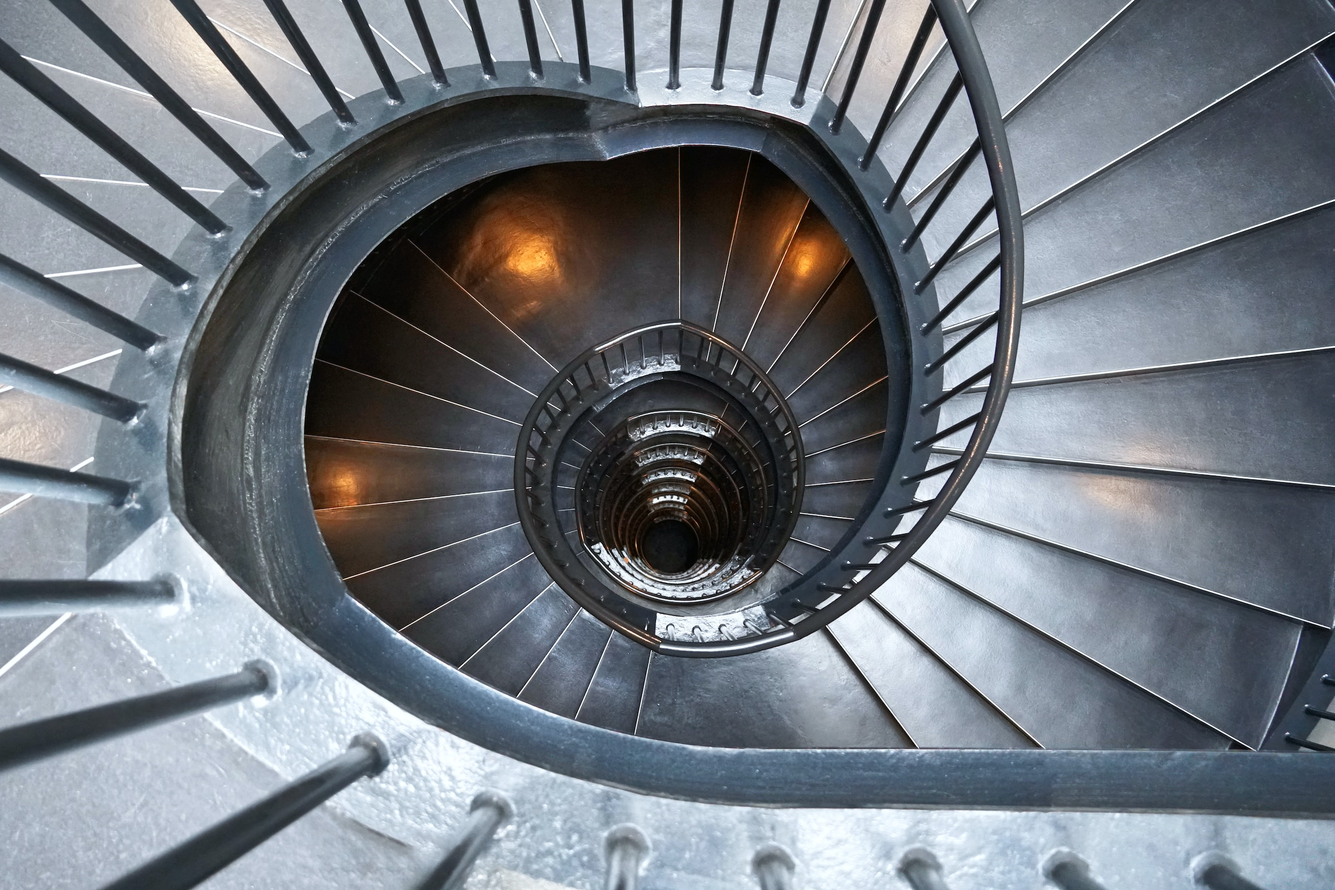
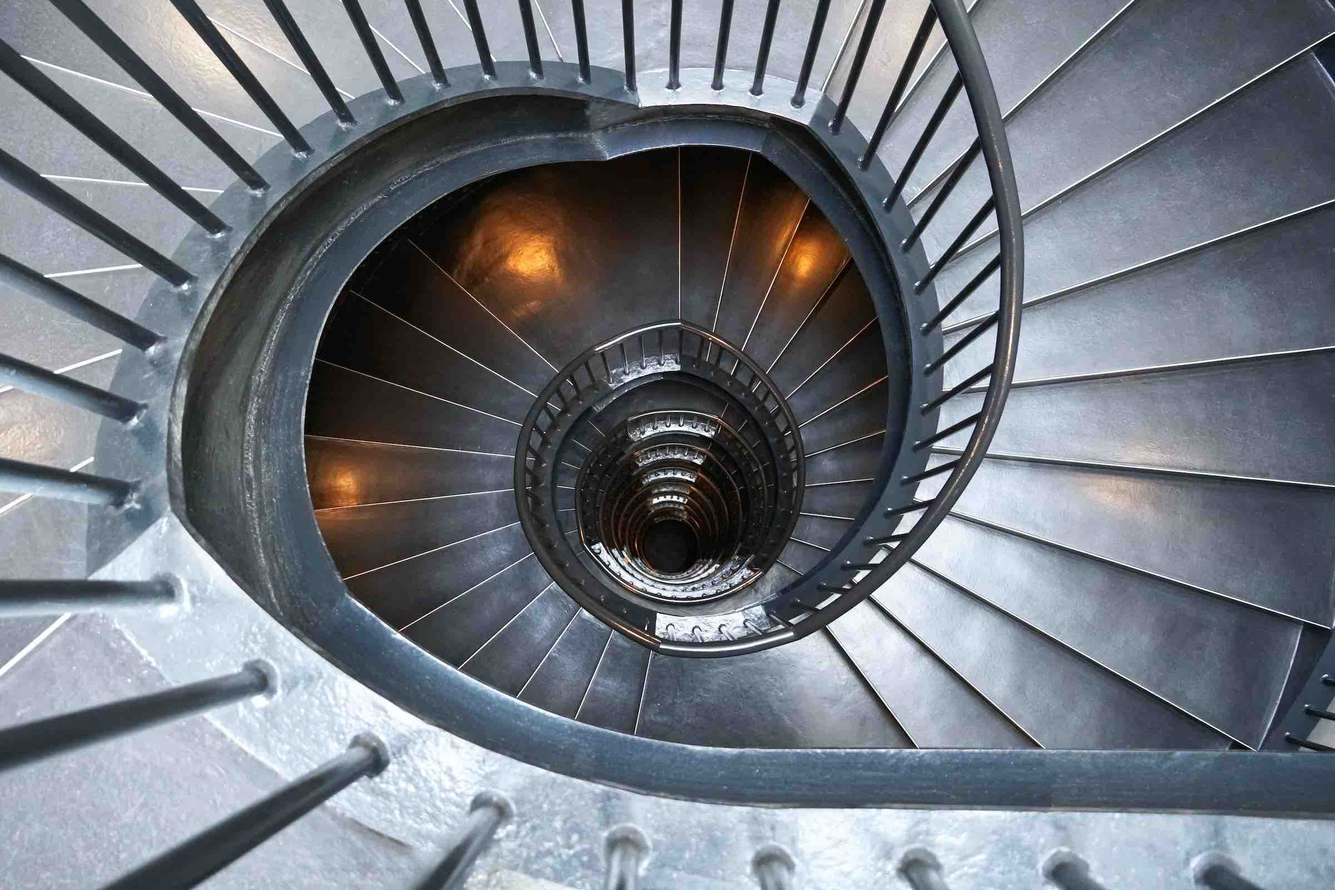
Resized images

diff --git a/content/posts/cold-fusion-road-deuterium/index.md b/content/posts/cold-fusion-road-deuterium/index.md
@@ -18,13 +18,13 @@ I open-sourced all my cold fusion work on the [lilley-lenr Gitlab repository](ht
 
 I went to my first cold fusion (LENR) conference - [ICCF22](https://iscmns.org/iccf22/) - in September in beautiful Asissi, Italy and I got to meet some of the big names in the field who've influenced me a lot e.g. Peter Hagelstein and Mike McKubre. 
 
-![Group photo of attendees of the ICCF22 conference](iccf22-group.jpeg "Original at https://iscmns.org/iccf22/photos-ruby-carat/")
+![Group photo of attendees of the ICCF22 conference](iccf22-group.jpg "Original at https://iscmns.org/iccf22/photos-ruby-carat/")
 
 The [research was diverse](https://iscmns.org/iccf22/program/), e.g. Condensed plasmoids ([Jaitner](https://www.youtube.com/watch?v=Gl9paQbjywk&list=PLpEPF2v_du9RBqvUxxOpoO2GSquUjzn2r)), Palladium thin films on Nickel foam ([Mastromatteo](https://www.youtube.com/watch?v=-gZrlxsFT7M&list=PLpEPF2v_du9RBqvUxxOpoO2GSquUjzn2r)), Nano powders with hydrogen ([Iwamura](https://www.youtube.com/watch?v=PwWLcmNieVY&list=PLpEPF2v_du9RBqvUxxOpoO2GSquUjzn2r)), Nuclear excitation transfer ([Metzler](https://www.youtube.com/watch?v=dDIZF9T9Umo&list=PLpEPF2v_du9RBqvUxxOpoO2GSquUjzn2r)) to name but a few! Incredibly inspirational to see all this work and to make some new connections.
 
 Off the back of ICCF22, one of my new collaborators, Florian Metzler, invited me to come out to MIT. I was an incredible experience to see the diversity of LENR experiments they've got going on, e.g. electrochemical, ion-beam, excitation transfer, and I got to help out in one of their experiments to replicate the work of Letts [^1]
 
-![](matt-florian-sadie-mit.png)
+![](matt-florian-sadie-mit.jpg)
 
 We also talked about possibly of working on some theory work together in an attempt to try and make some VERY complex ideas more accessible to larger audiences. That would be super exciting...but it's not for now... I've still have to finish off my own experiments!
 

diff --git a/content/posts/taste-of-tech/index.md b/content/posts/taste-of-tech/index.md
@@ -16,7 +16,7 @@ Since 2017, I've worked a lot in tech education, running accelerated learning ex
 
 I've seen how hard it can be for people to figure out if a career in tech is right for them and so I'm experimenting with an idea to help unblock peoples' decision paralysis and make a confident choice about their next career.
 
-{{<image-link src="tasteoftech.png" href="https://tasteof.tech" alt="Taste of Tech logo">}}
+{{<image-link src="tasteoftech.jpg" href="https://tasteof.tech" alt="Taste of Tech logo">}}
 
 
 [Taste of Tech](https://tasteof.tech) is a weekend long, self-paced, interactive, online course that puts you in the shoes of a developer working in a team. We simulate the experience of working in a remote team by creating virtual colleagues, e.g. product owners, designers and developers. You'll work to complete a project brief that goes through the whole tech life-cycle; with all the the twists and turns that go along with that to create a genuine experience of what tech is like.

diff --git a/content/about/_index.md b/content/about/_index.md
@@ -24,7 +24,7 @@ Along the way, I discoverd that I don't just enjoy building with tech, I'm also 
 
 {{< tweet user="KathrynParsons" id="1017345651296886784" >}}
 
-{{< image-link src="machine-learning.png" href="https://www.linkedin.com/posts/molly-howes-3a76a71b2_theavivafoundry-skillsfest-activity-7064344887994802177-8dHB" alt="Matt Lilley teaching machine learning at Aviva" >}}
+{{< image-link src="machine-learning.jpg" href="https://www.linkedin.com/posts/molly-howes-3a76a71b2_theavivafoundry-skillsfest-activity-7064344887994802177-8dHB" alt="Matt Lilley teaching machine learning at Aviva" >}}
 
 I’ve also helped people launch their careers in tech (student recommendations on [my LinkedIn](https://www.linkedin.com/in/matthew-lilley/)) and have launched a weekend-long learning experience called [Taste of Tech]({{< relref "/posts/taste-of-tech" >}}), designed to help people figure out if a career in tech is right for them.
 

diff --git a/content/posts/cold-fusion-coconut-conundrum/index.md b/content/posts/cold-fusion-coconut-conundrum/index.md
@@ -27,7 +27,7 @@ So, what does this all mean:
 
 I'm not in any position to figure out if 1 is true. On 2, luckily there has been a recent flurry of activity on the [LENR forum around some recent experiments from Mizuo](https://www.lenr-forum.com/forum/thread/6017-mizuno-replication-and-materials-only/?pageNo=1). Much like the Les Case experiment, Mizuno is working with a gas loaded system. Mizuno also claims large amounts of excess heat from his reactor.
 
-![Mizuno reactor](mizuno.png "300W input and reportedly 3000W output 😱")
+![Mizuno reactor](mizuno.jpg "300W input and reportedly 3000W output 😱")
 
 It's a solid starting point for me. 
 

diff --git a/content/posts/cold-fusion-rabbit-hole/index.md b/content/posts/cold-fusion-rabbit-hole/index.md
@@ -49,7 +49,7 @@ Plenty to dig into here... I think too much. So, I'm going to try and find some 
 
 I've made myself a [little landing page](https://web.archive.org/web/20180816065239/https://skadi-energy.carrd.co/) (using [carrd.co](https://carrd.co/))
 
-![Screenshot of skadi-energy website](skadi.png)
+![Screenshot of skadi-energy website](skadi.jpg)
 
 and I'll put some posters up in some of the London universities - let's see if I get any traction.
 
